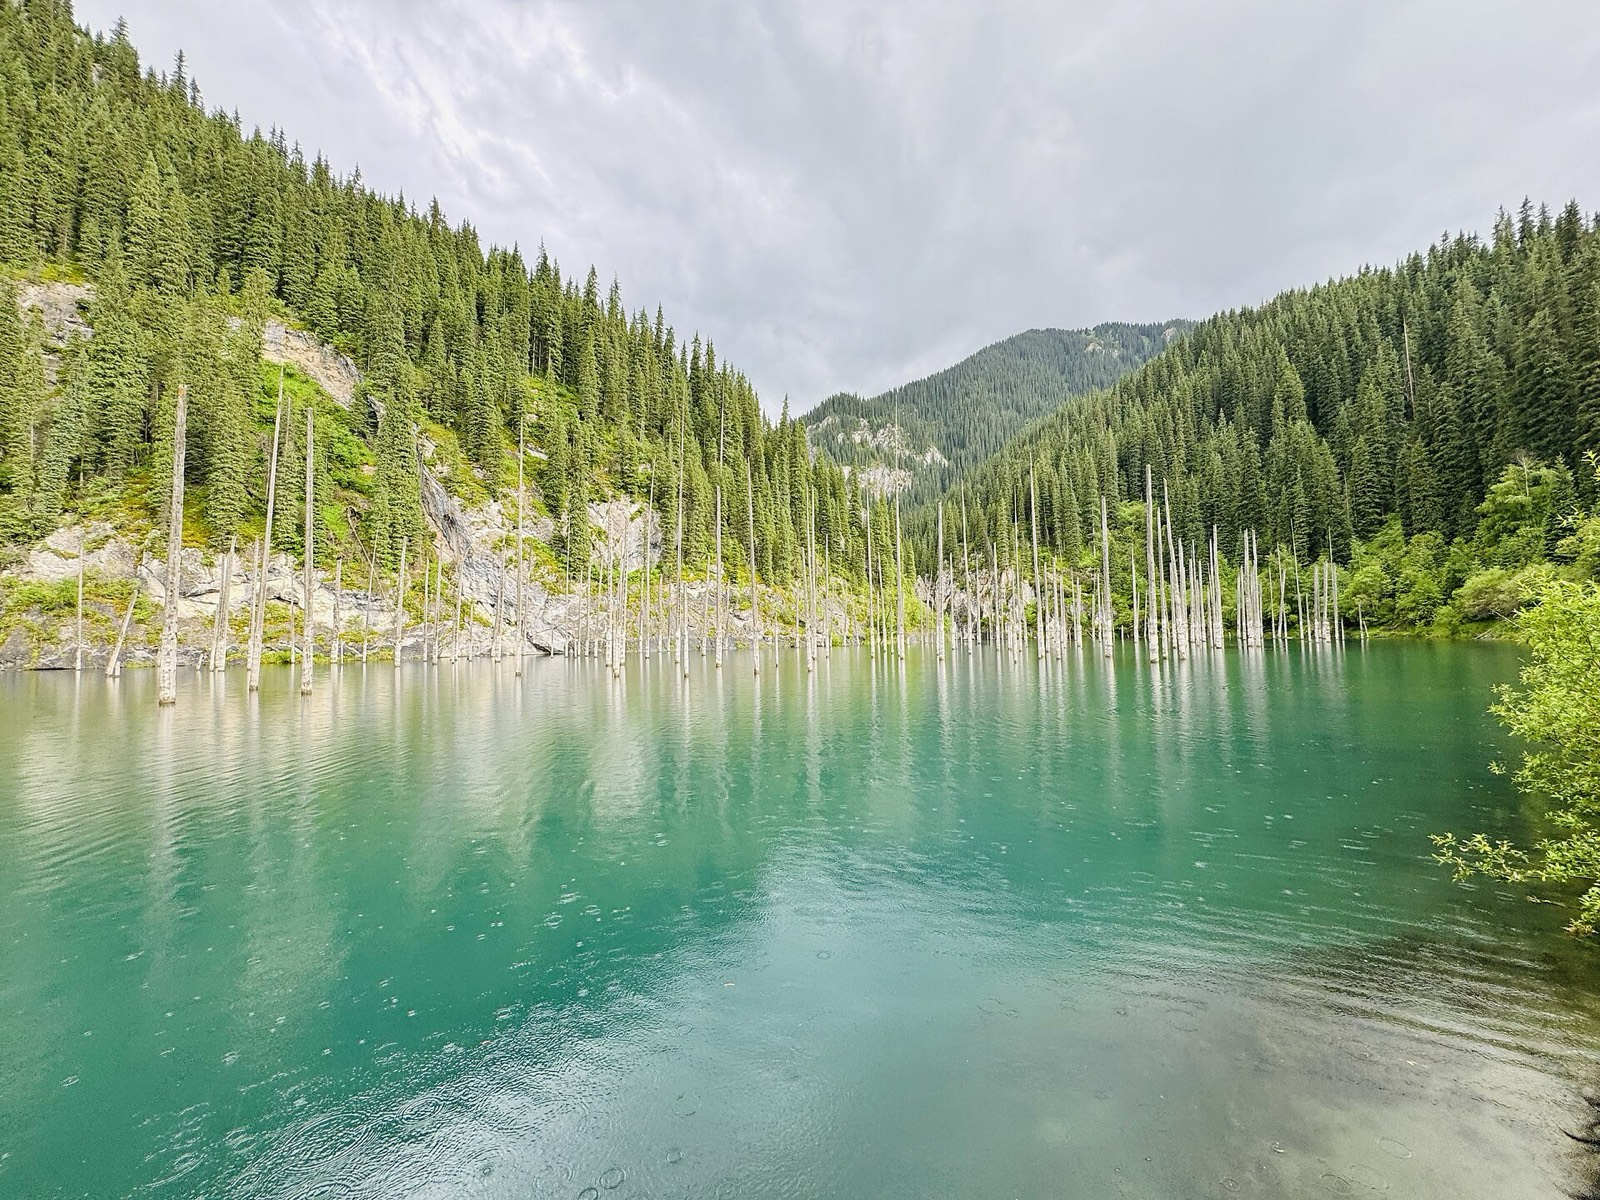
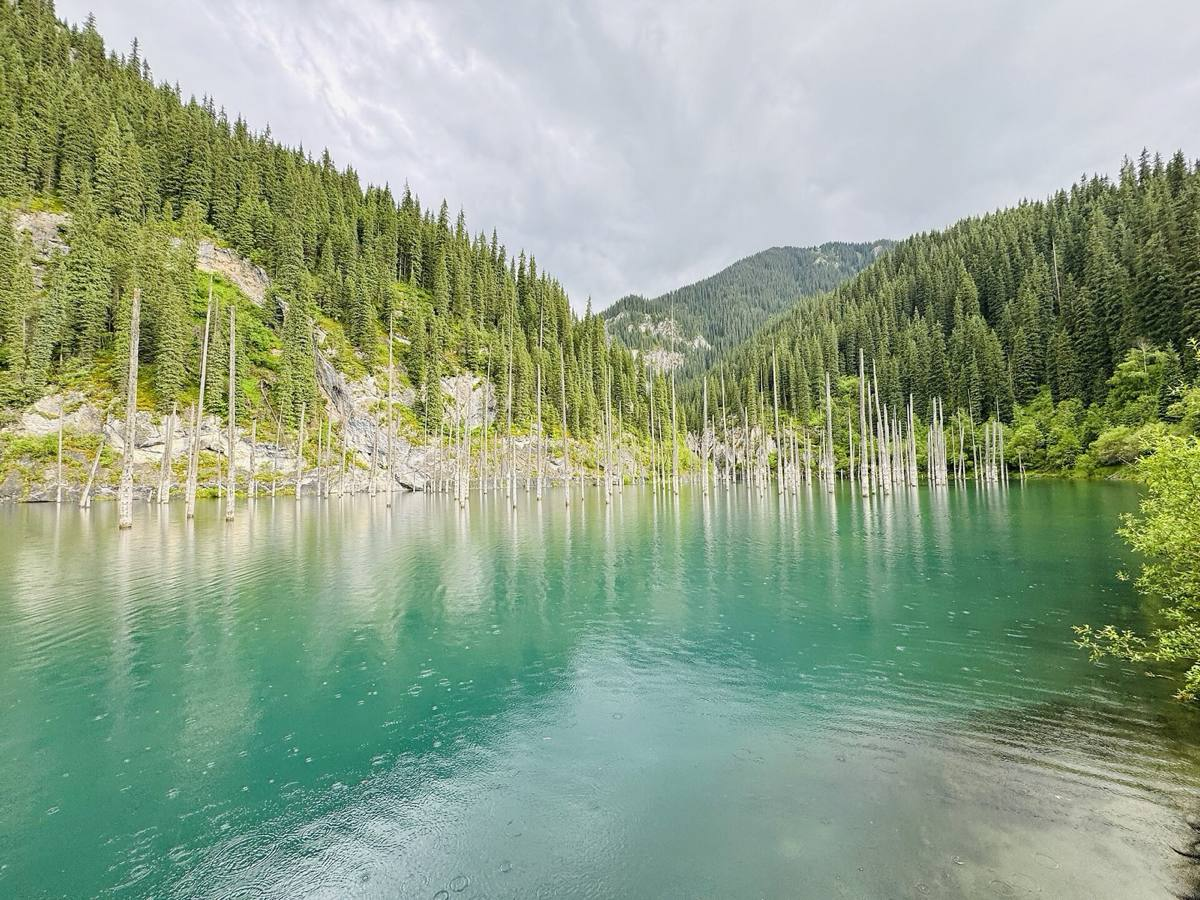
Ужала фото и добавила повторную загрузку при сбое сети

diff --git a/script.js b/script.js
@@ -1,5 +1,29 @@
 "use strict";
 
+/* ---------- Фото: повторная загрузка при сбое сети ---------- */
+
+// Браузер не перезапрашивает картинку после сетевой ошибки, поэтому
+// сами пробуем ещё несколько раз с паузой, прежде чем сдаться.
+const IMG_RETRIES = 3;
+
+function retryImage(img) {
+  const tries = Number(img.dataset.retries || 0);
+  if (tries >= IMG_RETRIES) return;
+  img.dataset.retries = String(tries + 1);
+  const base = img.getAttribute("src").split("?")[0];
+  setTimeout(() => { img.src = `${base}?retry=${tries + 1}`; }, 1000 * (tries + 1));
+}
+
+// Событие error не всплывает, ловим на фазе перехвата.
+document.addEventListener("error", (event) => {
+  if (event.target instanceof HTMLImageElement) retryImage(event.target);
+}, true);
+
+// Первый экран мог упасть ещё до того, как скрипт загрузился.
+document.querySelectorAll("img").forEach((img) => {
+  if (img.complete && img.currentSrc && img.naturalWidth === 0) retryImage(img);
+});
+
 /* ---------- Данные заездов ---------- */
 
 const TRIPS = [

diff --git a/styles.css b/styles.css
@@ -158,7 +158,7 @@ a { color: inherit; }
   overflow: hidden;
 }
 
-.hero__media { position: absolute; inset: 0; }
+.hero__media { position: absolute; inset: 0; background: var(--accent-deep); }
 
 .hero__media img {
   width: 100%;
@@ -432,7 +432,7 @@ a { color: inherit; }
 .request__media {
   position: absolute;
   inset: 0;
-  background: url("assets/tour-burabay.jpg") center / cover no-repeat;
+  background: var(--accent-deep) url("assets/tour-burabay.jpg") center / cover no-repeat;
 }
 
 .request__media::after {
